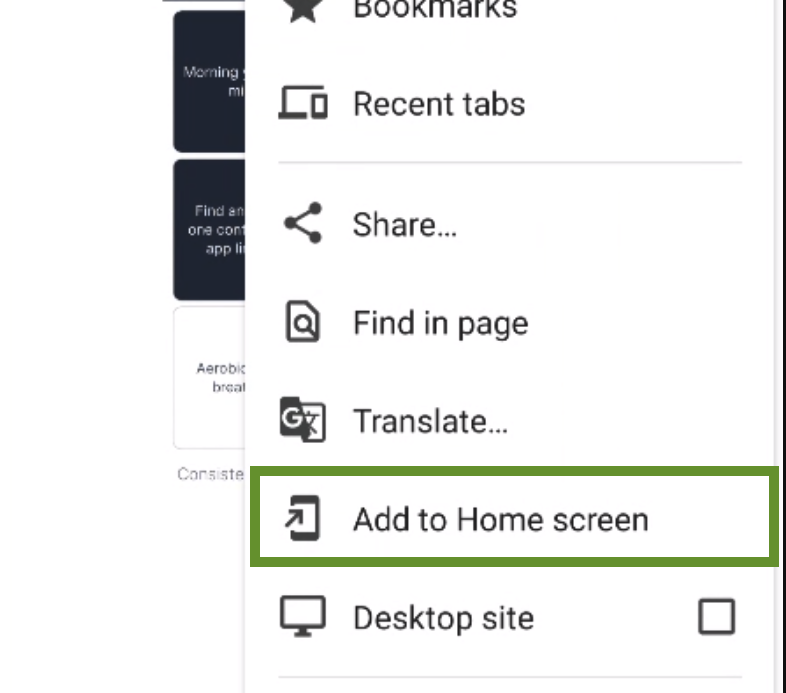
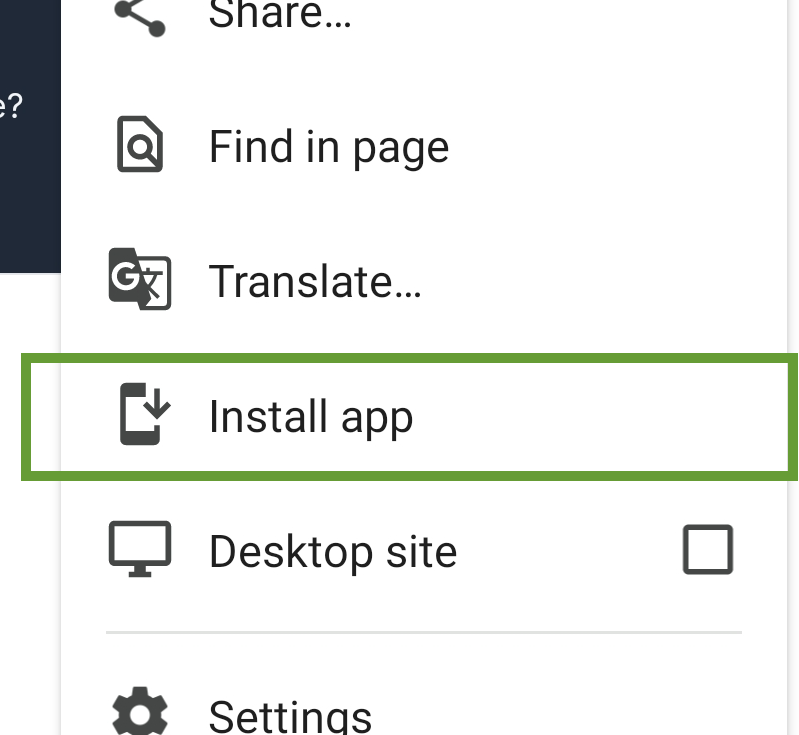
finishing install help tray

diff --git a/src/components/InstallPWA.vue b/src/components/InstallPWA.vue
@@ -2,15 +2,26 @@
   <div class="text-xl text-gray-600 font-bold mb-4">Install Nine Panels as an app!</div>
   <div class="flex flex-col justify-start  space-y-3 h-full text-sm text-gray-500 font-light">
 
-    <div class="text-gray-500 ">Easier to find. App-like experience.</div>
-    <div class="flex flex-col justify-between items-center">
-      <img src="@/assets/example_install.jpg" class="h-48 border border-gray-400 rounded-xl mt-2 mb-2" />
+    <div class="text-gray-500 ">Easier to find. App-like experience. Android and iOS.</div>
+    <div class="flex justify-between items-center">
+      <div class="flex flex-col mb-2">
+
+        <img src="@/assets/ios_installed.jpg" class="h-32 border border-gray-400 rounded-xl mt-2 mr-2" />
+        <div class="text-xs text-gray-400">Apple iOS</div>
+      </div>
+      <div class="flex flex-col mb-2">
+
+        <img src="@/assets/android_installed.png" class="h-32  border border-gray-400 rounded-xl mt-2" />
+        <div class="text-xs text-gray-400">Android</div>
+
+      </div>
     </div>
     <div class="text-gray-500">FYI: You'll need to sign in again, just like you would if you installed the app via your
       App or
       Play Store.</div>
     <div class="text-lg text-gray-600 font-bold">Chrome on Android:</div>
-    <div class="">Tap the ellipis top-right, find the 'Add to Home Screen' button. Add the app. Requires latest Chrome (v115 +)</div>
+    <div class="">Tap the ellipis top-right, find the 'Install app' button. Install the app. *Requires latest Chrome (v115
+      +) and Android 13</div>
     <div class="flex flex-col justify-between items-center">
       <img src="@/assets/android_chrome_1.png" class="h-36 border border-gray-400 rounded-xl mb-4" />
       <img src="@/assets/android_chrome_2.png" class="h-36 border border-gray-400 rounded-xl" />
@@ -30,15 +41,12 @@
       <img src="@/assets/safari_2.jpg" class="h-36 border border-gray-400 rounded-xl" />
     </div>
 
-    <div class="text-lg text-gray-600 font-bold">Firefox:</div>
+    <div class="text-lg text-gray-600 font-bold">Firefox on iOS:</div>
     <div class="">Tap menu bottom left, tap Share, find the 'Add to Home Screen' button. Add the app.</div>
     <div class="flex flex-col justify-between items-center mb-6">
       <img src="@/assets/firefox_1.jpg" class="h-36 border border-gray-400 rounded-xl mb-4" />
       <img src="@/assets/firefox_2.jpg" class="h-36 border border-gray-400 rounded-xl" />
     </div>
-
-
-
   </div>
 </template>
 

diff --git a/src/router/index.js b/src/router/index.js
@@ -77,10 +77,9 @@ const router = createRouter({
 
 router.beforeEach((to, from, next) => {
   const store = useStore()
-  // const user = store.user
   store.visGridIsOpen = false
   store.shareBoxIsOpen = false
-  // store.checkMobile()
+  store.checkMobile()
   store.checkPWA()
   const access_token = VueCookies.get("9p_access_token")
   if (to.path === '/') {
